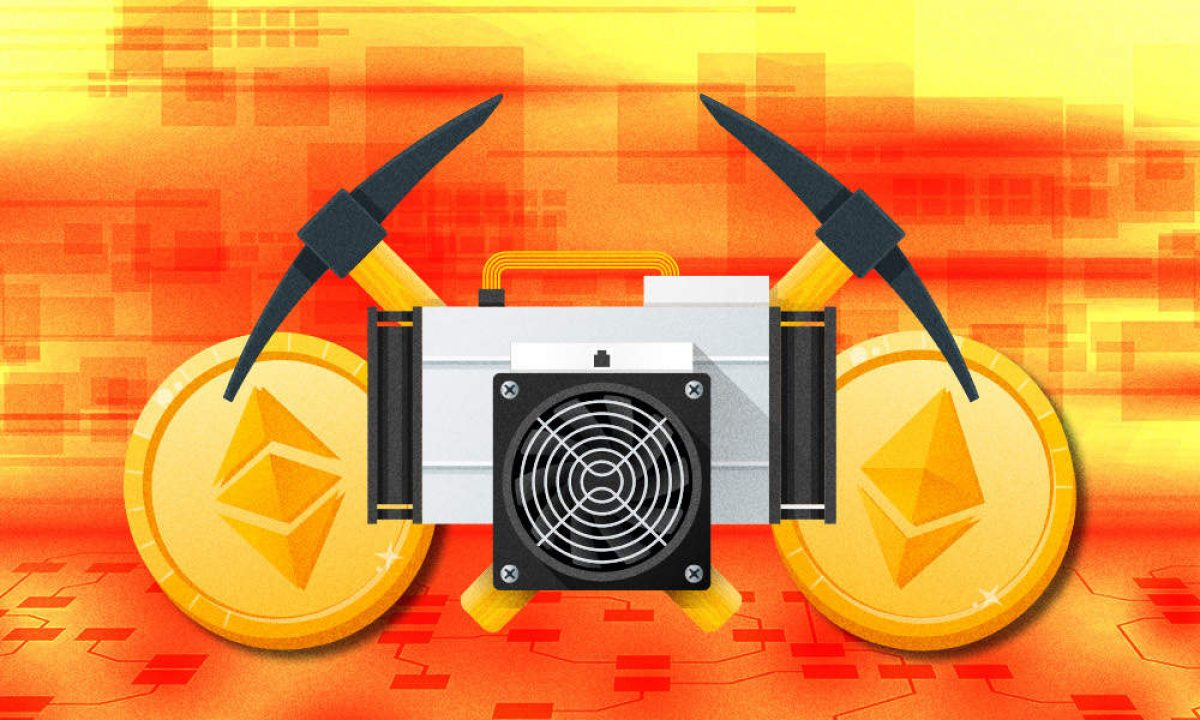
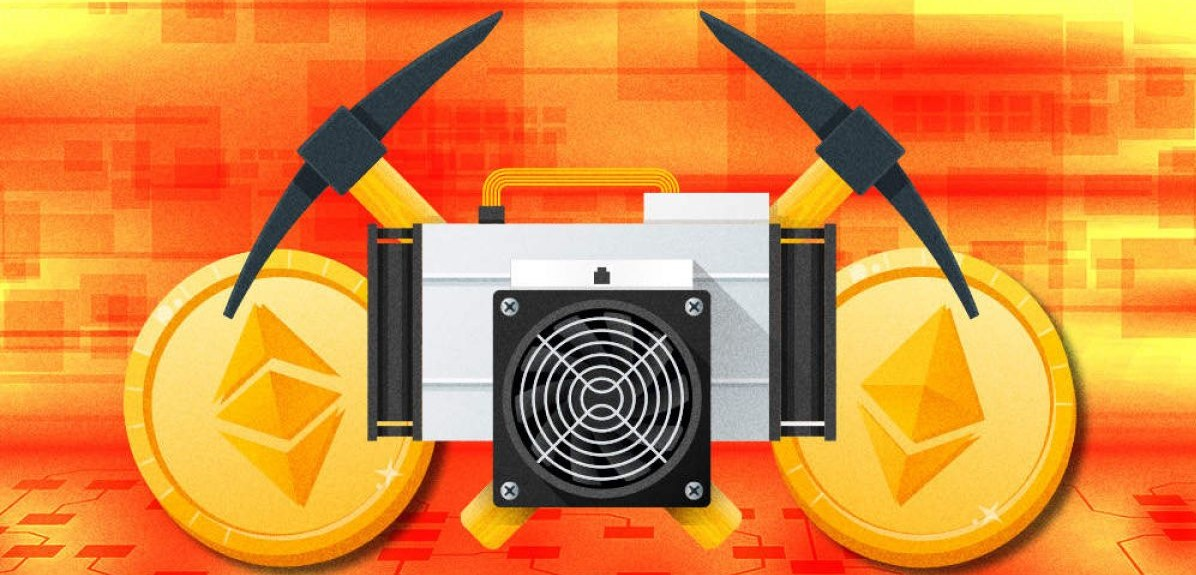
resizing ethmining image

diff --git a/ethereummining.html b/ethereummining.html
@@ -67,7 +67,7 @@
             </div>
             <div class="row justify-content-center">
                 <div class="col-lg-10">
-                    <img class = "photo1" src="images/ethmining.jpg" alt="Image of CryptoCurrency" width='938' height='560'>
+                    <img class = "photo1" src="images/ethmining.jpg" alt="Image of CryptoCurrency" width='800' height='479'>
                 </div>
             </div>
             <br/>
